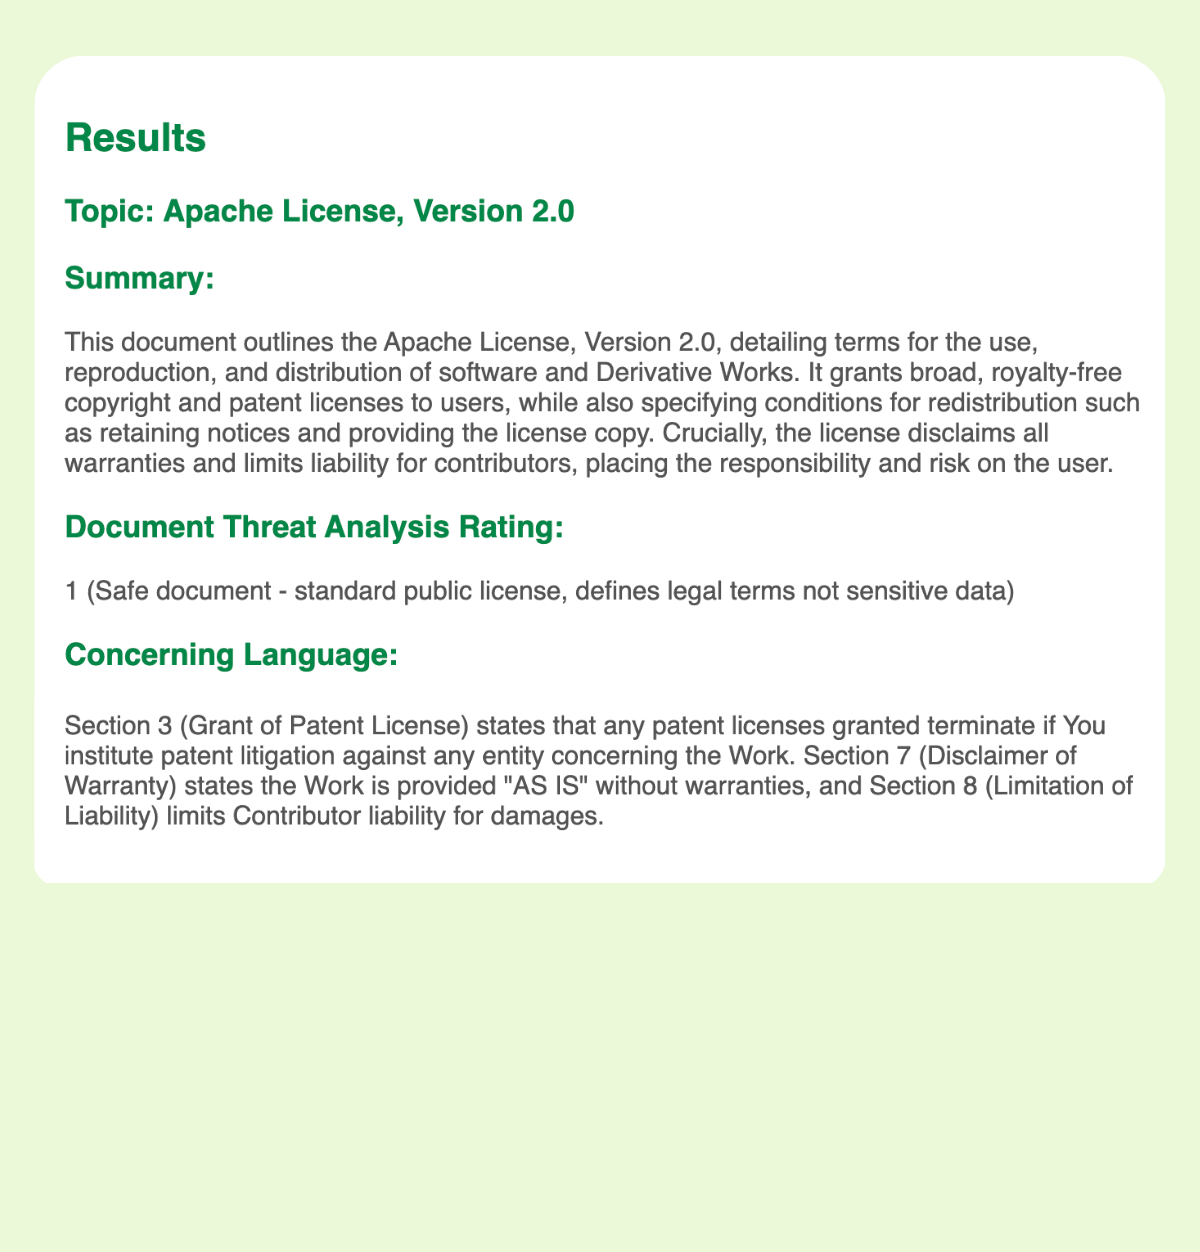
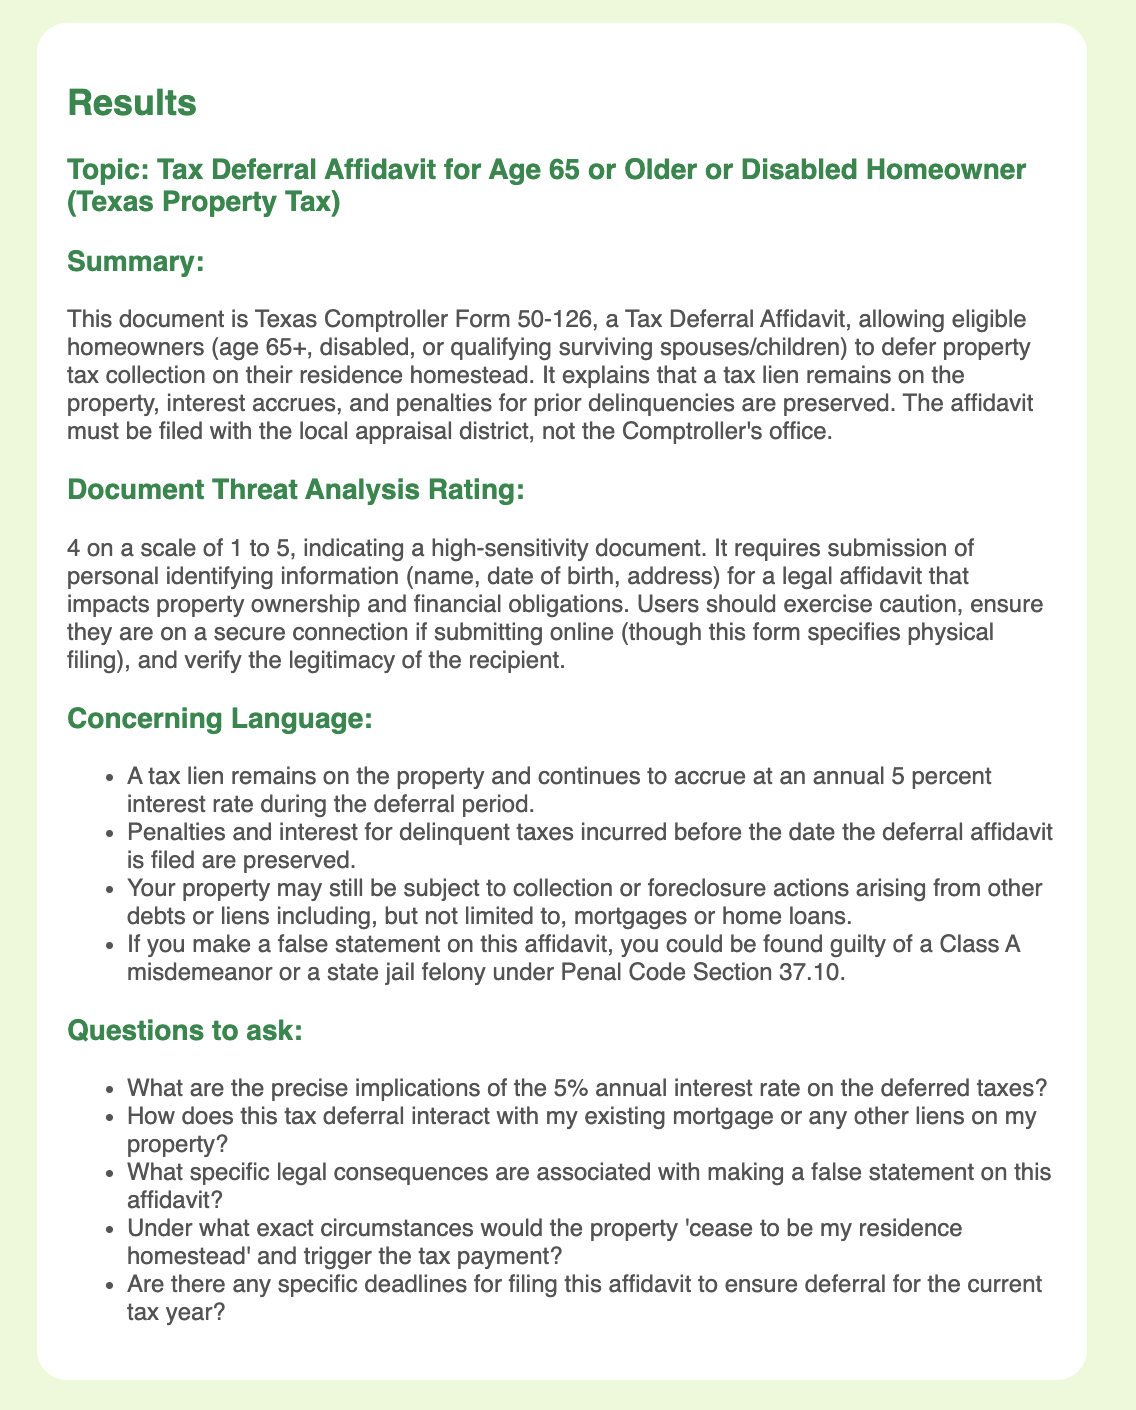
added and cleaned up response

diff --git a/frontend/src/App.css b/frontend/src/App.css
@@ -82,12 +82,11 @@ h1 {
 #features {
   display: flex;
   align-items: center;
-  /*margin-top:10px;*/
   border: 1px solid #00BF63;
 }
 
 #about {
-  font-size: 2.5rem;
+  font-size: 3.1rem;
   color: darkgreen;
   margin: 20px auto;
   width: 312.8px;
@@ -106,7 +105,7 @@ h1 {
 
 #demo img {
   width: 100%;
-  height: auto;
+  height: 100%;
   flex-shrink: 0;
   animation: fadeIn 3s;
 }
